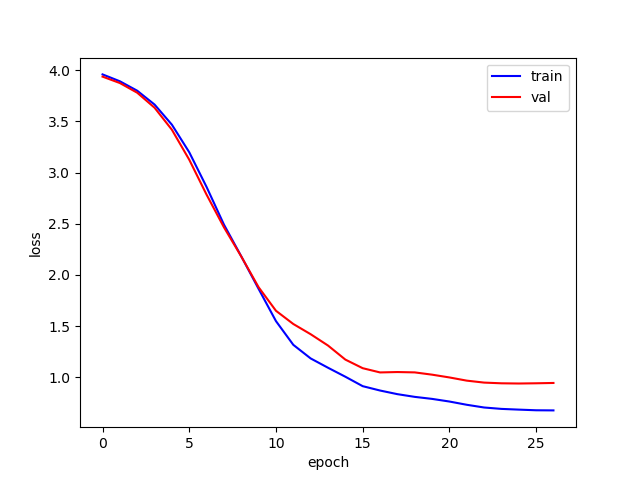
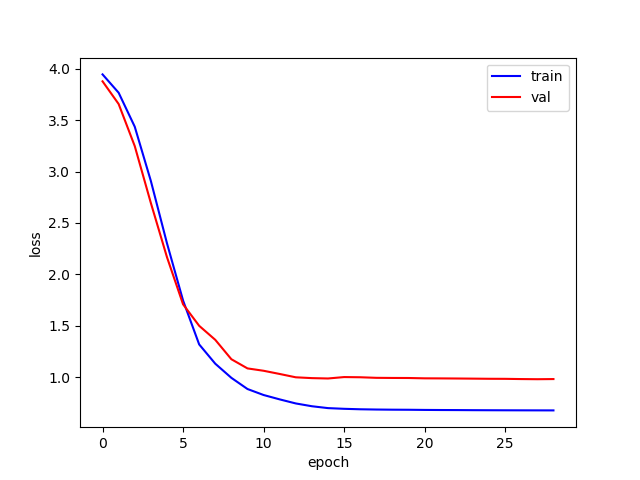
add regularizer

diff --git a/train.py b/train.py
@@ -32,7 +32,7 @@ def train(args, seed=0):
     num_epochs = args['n_epochs']
     feature_dim = 14
     margin = args['margin']
-    model = DeepSetLinkage(in_dim=feature_dim, lr=args['lr'], linear=args['linear'])
+    model = DeepSetLinkage(in_dim=feature_dim, lr=args['lr'], linear=args['linear'], wd=args['wd'])
 
 
 
@@ -105,8 +105,8 @@ def train(args, seed=0):
     # find f1 score
     link_list = []
     f1_list = []
-    for idx, vb in enumerate(val_blocks):
-    # for idx, vb in enumerate(val_blocks + train_blocks):
+    # for idx, vb in enumerate(val_blocks):
+    for idx, vb in enumerate(val_blocks + train_blocks):
         pair_features = np.loadtxt('data/rexa/{}/pairFeatures.csv'.format(vb), delimiter=',', dtype=np.float)
         pairs = process_pair_features(pair_features)
         gt_clusters = np.loadtxt('data/rexa/{}/gtClusters.tsv'.format(vb), delimiter='\t', dtype=np.float)[:,1]

diff --git a/models.py b/models.py
@@ -2,7 +2,7 @@ import torch
 import torch.nn as nn
 
 class DeepSetLinkage():
-    def __init__(self, in_dim, lr=1e-2, linear=False):
+    def __init__(self, in_dim, lr=1e-2, linear=False, wd=0.):
         super(DeepSetLinkage, self).__init__()
         
         self.in_dim = in_dim
@@ -27,7 +27,7 @@ class DeepSetLinkage():
 
         params = list(self.feature_fn.parameters()) + list(self.scoring_fn.parameters()) 
         params = nn.ParameterList(params)
-        self.optimizer = torch.optim.Adam(params, lr=lr)
+        self.optimizer = torch.optim.Adam(params, lr=lr, weight_decay=wd)
     
     def featurize(self, pairs):
         return self.feature_fn(pairs)

diff --git a/plot_results.py b/plot_results.py
@@ -6,6 +6,7 @@ import matplotlib.pyplot as plt
 
 def main(path):
     args = json.load(open(path+'/config.json'))
+
     train_arrays = [np.load(path + '/train_losses_'+str(x)+'.npy') for x in range(args['n_trials'])]
     val_arrays = [np.load(path + '/val_losses_'+str(x)+'.npy') for x in range(args['n_trials'])]
     
